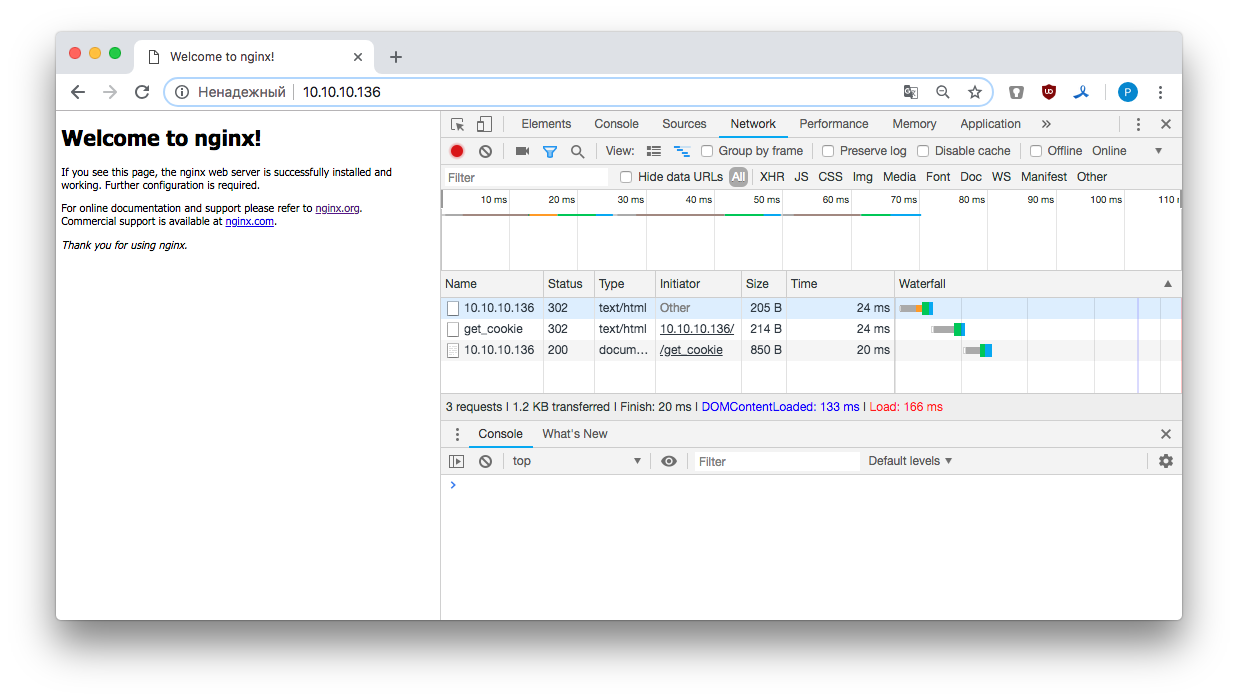
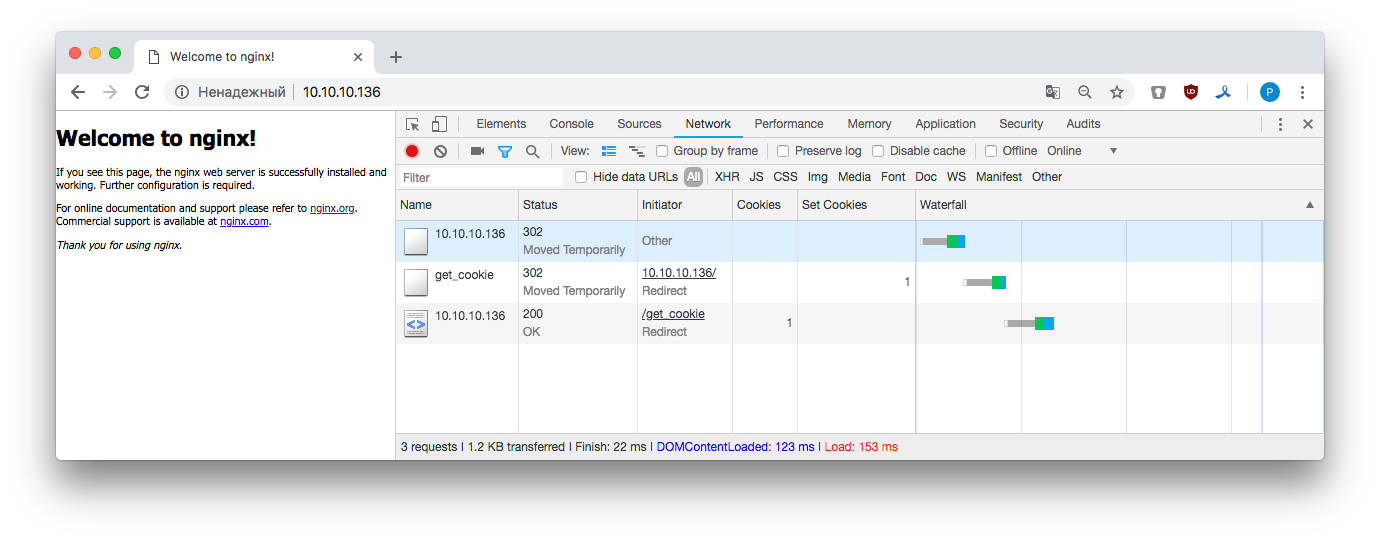
23-2

diff --git a/hw23/README.md b/hw23/README.md
@@ -24,7 +24,9 @@ server {
 }
 </pre>
 
-Если мы запрашиваем location "/" и у нас не стоит cookie `id=123` то происходит редирект на location "/get_cookie", где клиент получает cookie – `add_header Set-Cookie "id=123"`, после чего происходит редирект на location "/" и клиент получает тестовую  страницу nginx. Используем для этого `redirect` с кодом 302. 302-о перенаправление говорит о том, что нужно перейти по другому адресу.
+Если клиент запрашивает location "/" и у клиента не установлено cookie `id=123` (проверка `if ($cookie_id != "123")`) то происходит его перенаправление на location "/get_cookie". Клиент получает cookie – `add_header Set-Cookie "id=123"`, после чего происходит перенаправление на location "/". Теперь клиент удовлетворяет условиям проверки и получает тестовую страницу nginx. 
+
+Используем для этих манипуляций директиву `return` с кодом 302 в контексте `location`. 302-е перенаправление говорит о том, что нужно перейти по другому адресу.
 
 Проверяем с помощью `curl`, полученная cookie выделена полужирным:
 
@@ -70,7 +72,14 @@ $ tail -f /var/log/nginx/host.access.log
 172.16.1.10 - - [03/Feb/2019:11:49:19 +0000] <span style="color:red"><b>"HEAD / HTTP/1.1" 200</b></span> 0 "-" "curl/7.54.0" "-"
 </pre>
 
-Видим, что клиент запросил `/`, сервер не нашел у клиента cookie `id=123`, перешел по `/get_cookie`, получил cookie `id=123`, далее клиент перешел по `/` и получил в ответ дефолтную страницу nginx.
+Видим, что клиент запросил `/`, сервер не нашел у клиента cookie `id=123`, клиент перешел по `/get_cookie`, получил cookie `id=123`, далее клиент перешел по `/` и получил в ответ дефолтную страницу nginx.
 
-Ну и традиционный скриншот для наглядности:
+Ну и традиционный скриншот для наглядности.
+
+Перенаправления:
 ![](pic/pic01.png)
+
+Установленные cookie:
+![](pic/pic02.png)
+
+
